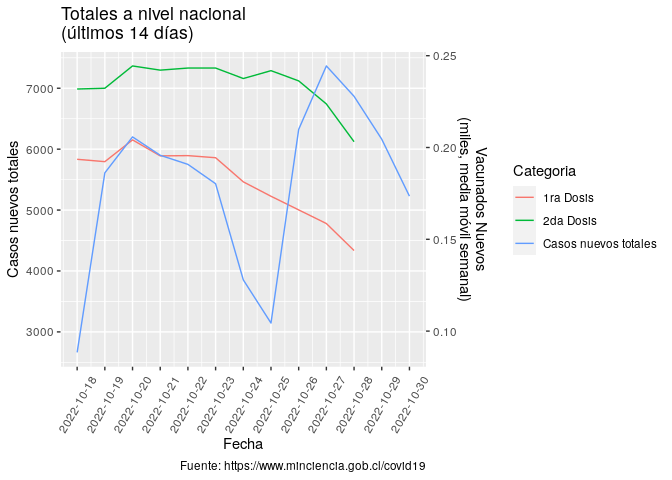
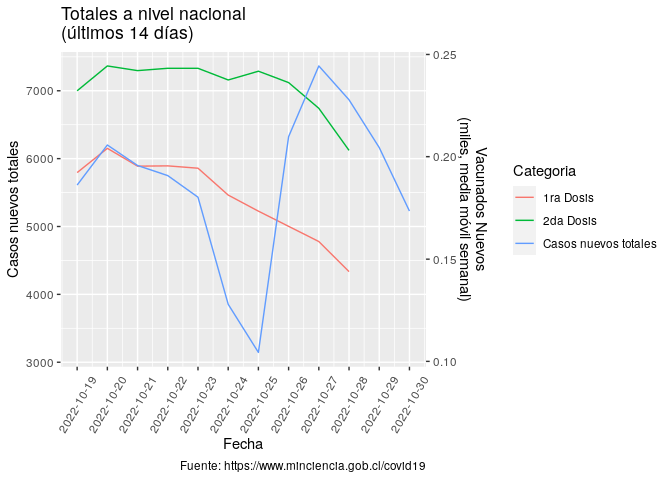
Re-build Rmarkdown files

diff --git a/README.md b/README.md
@@ -3,7 +3,7 @@
 
 Ejemplo de uso de total\_casos de COVID recopilados por el Ministerio de
 Ciencia de Chile <https://www.minciencia.gob.cl/covid19>. Última
-actualización: 2022-10-31
+actualización: 2022-11-01
 
 ## Visualización desde el comienzo de la pandemia
 
